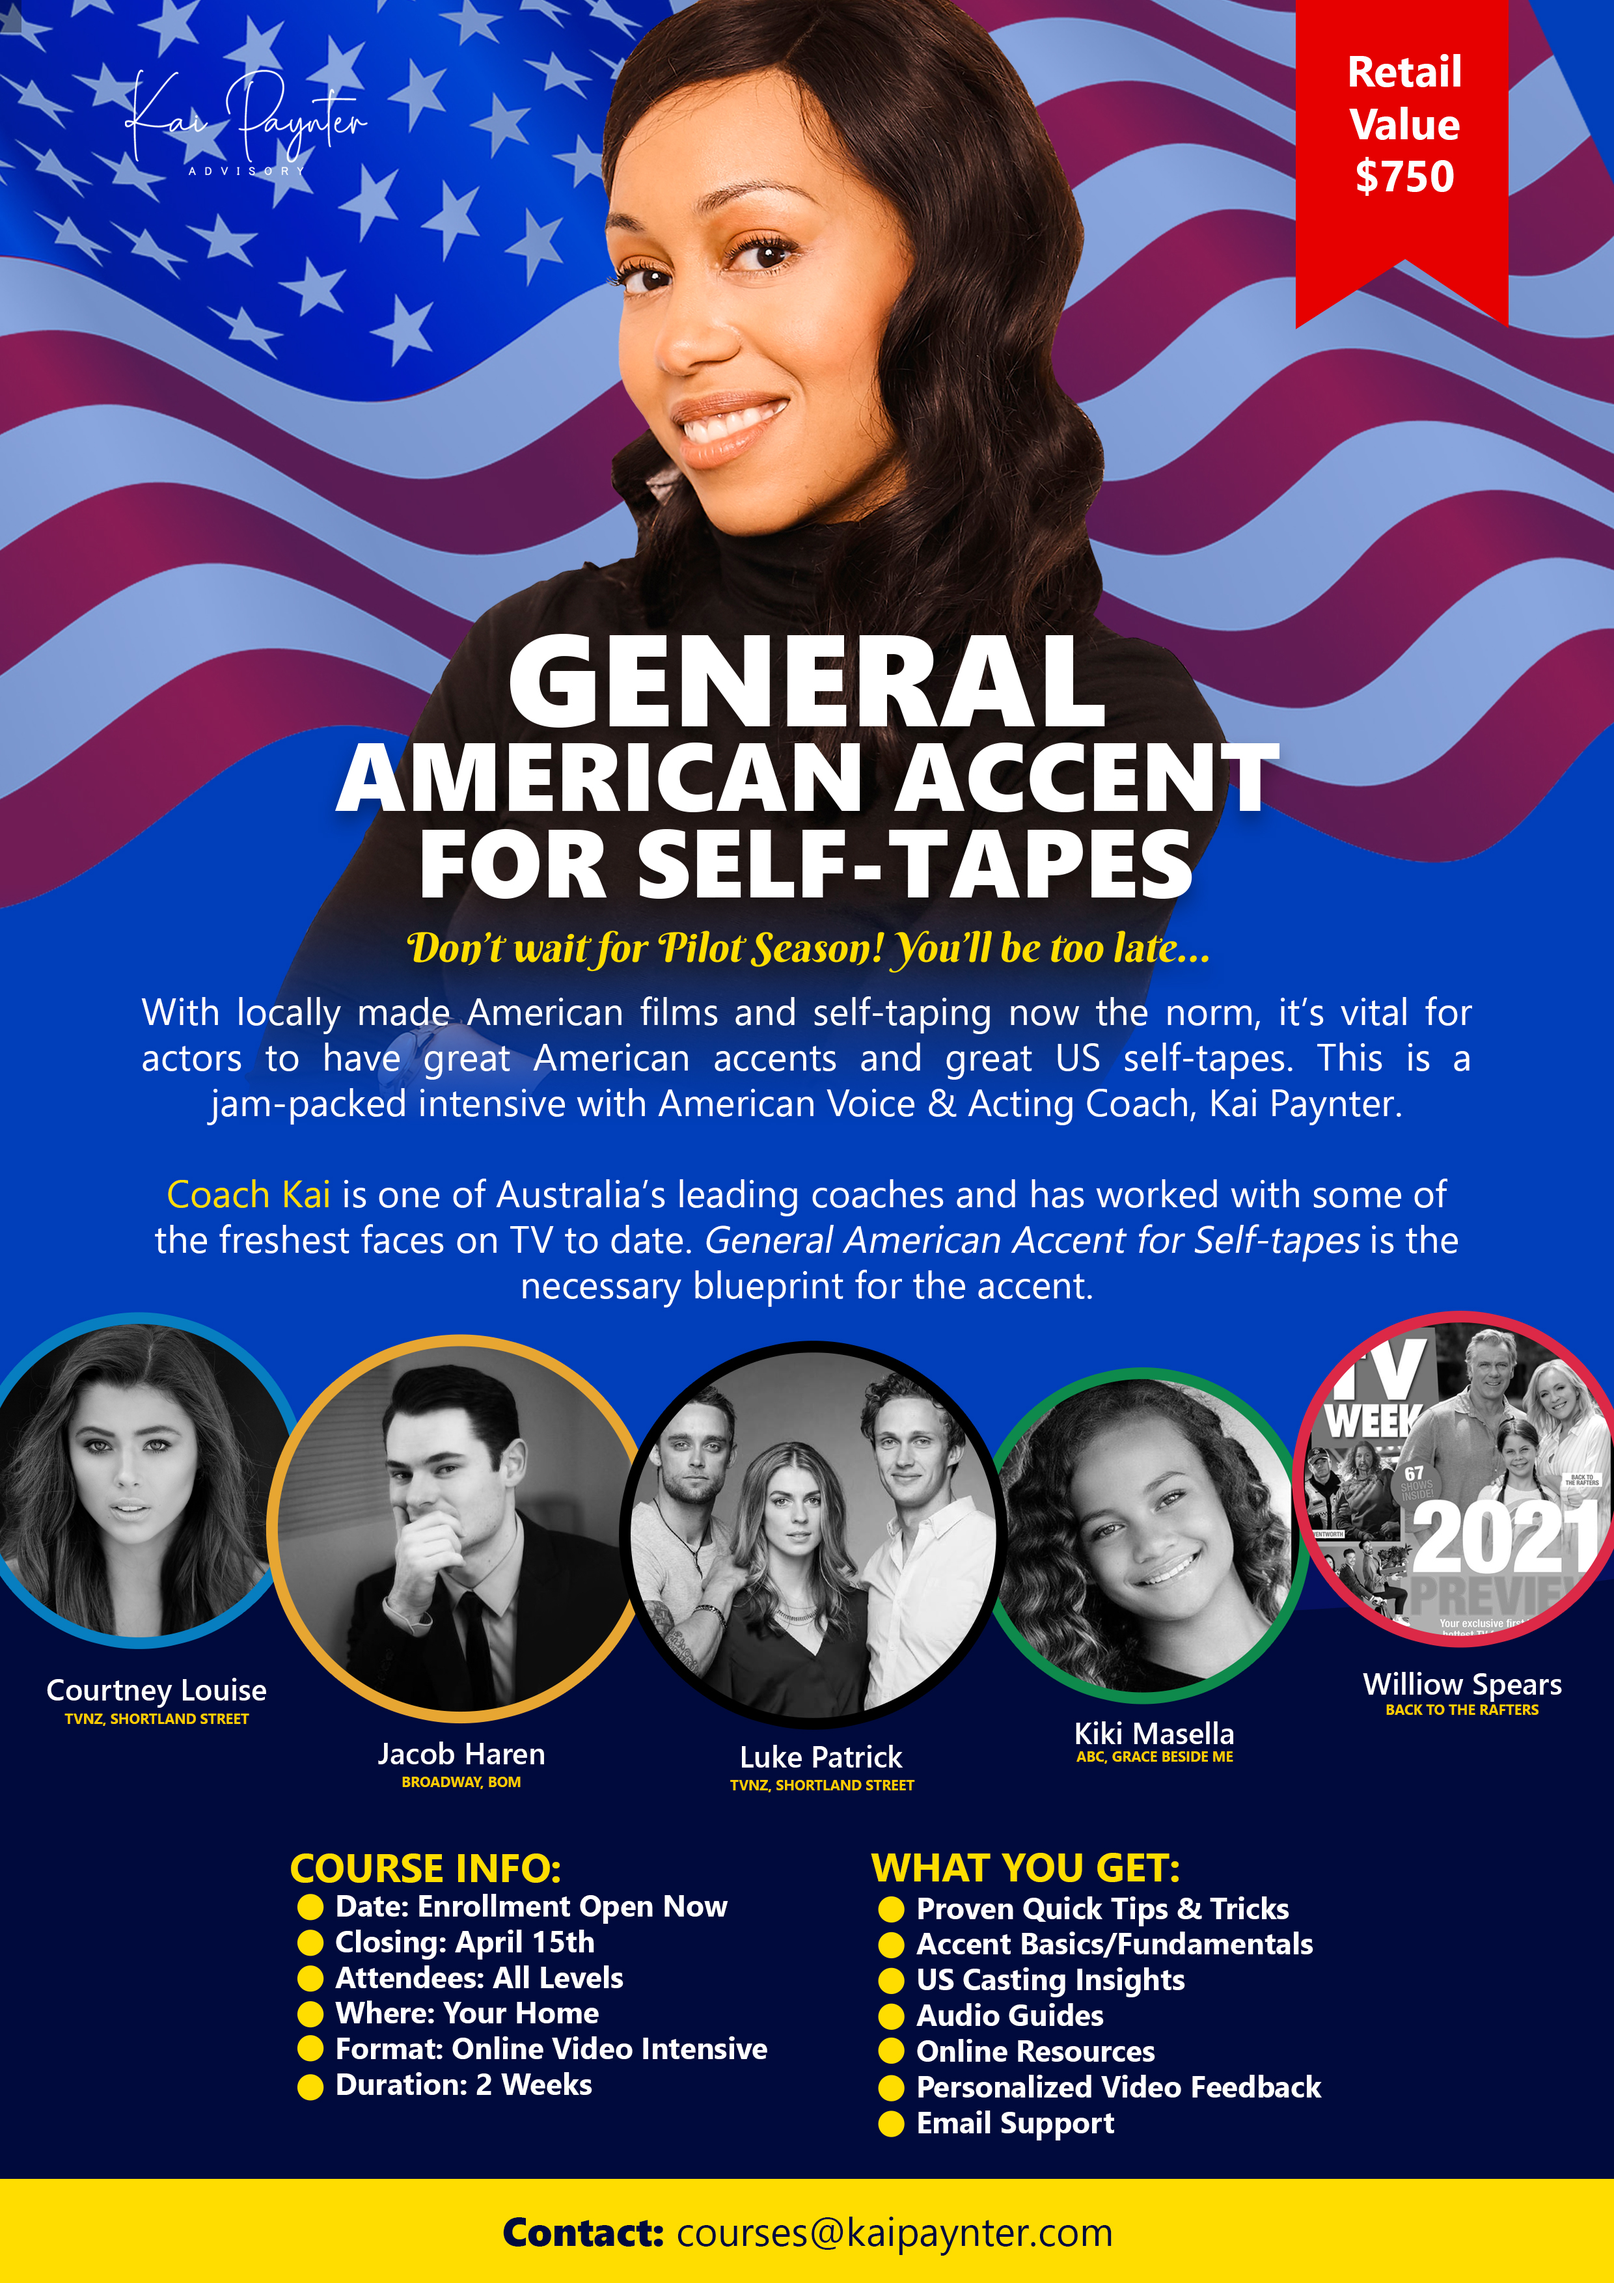
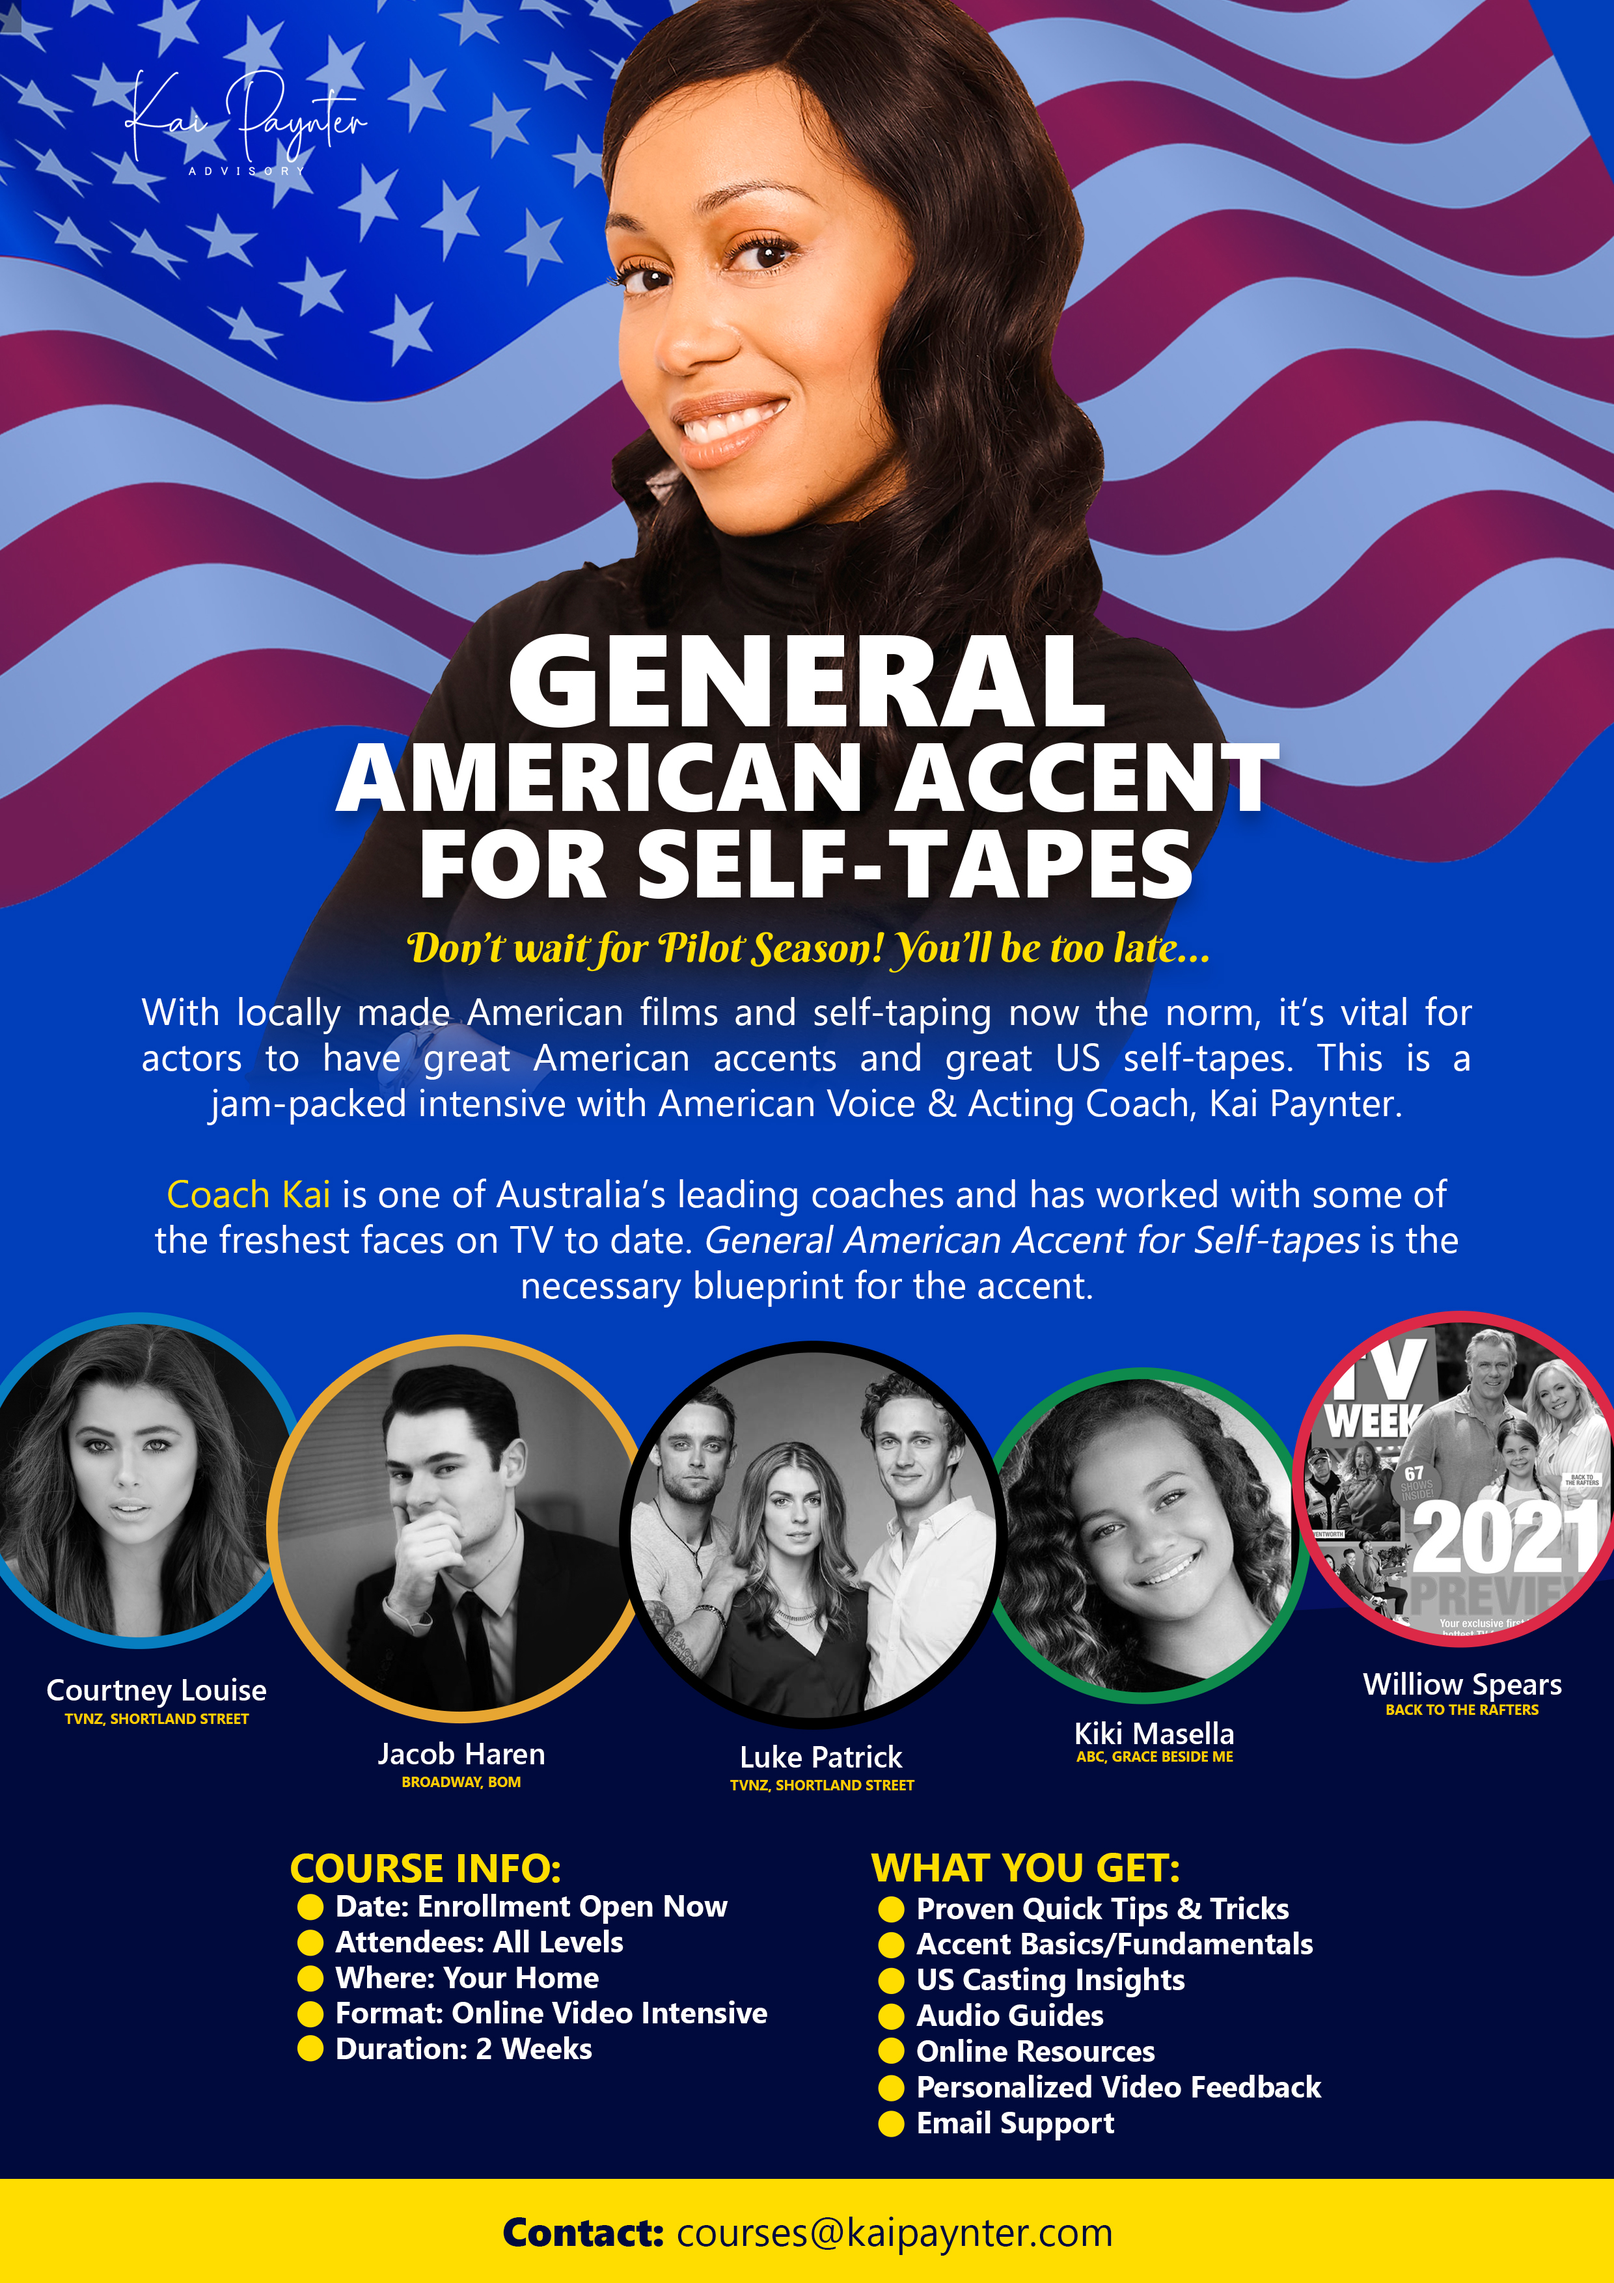
lastest updates

Changed region(s): [[0.7762, 0.0, 0.9625, 0.1554], [0.1863, 0.8389, 0.4657, 0.9322]]

diff --git a/src/pages/whats-on.js b/src/pages/whats-on.js
@@ -50,11 +50,12 @@ class WhatsOn extends React.Component {
                 ></iframe>
                 <p />
                 <p>
-                  “I’ve been studying American Accent with Kai for two terms
-                  now. I absolutely love doing the course with her! She’s super
-                  supportive and she gives me amazing feedback that helps me
-                  progress. I can’t wait to keep on learning and improving my
-                  accent and finding out about more tools!” –{' '}
+                  “<strong>Client of the Quarter</strong> - I’ve been studying
+                  General American Accent with Kai for a little less than a
+                  year, now. I absolutely love doing the course with her! She’s
+                  super supportive and she gives me amazing feedback that helps
+                  me progress. I can’t wait to keep on learning, improving my
+                  accent, and finding out about more tools!” –{' '}
                   <strong>Aria Bella Hart</strong>, Sydney, Australia
                 </p>
               </div>
@@ -103,6 +104,7 @@ class WhatsOn extends React.Component {
                 </span>
                 <p>
                   <p className="centeredText">Fontana, CA</p>
+                  <p className="centeredText">Military Operations Management</p>
                   “…I couldn't believe how she was able to transform all my work
                   experience into this well written, key word rich, professional
                   document, at a fraction of the length of the resume I wrote…I
@@ -134,7 +136,7 @@ class WhatsOn extends React.Component {
 
                 <br />
 
-                <h3 className="centeredText">Sangeetha G.</h3>
+                <h3 className="centeredText">Sangeetha</h3>
                 <iframe
                   className="iframe"
                   title="Sangeetha G"
@@ -179,8 +181,11 @@ class WhatsOn extends React.Component {
                 </span>
                 <p>
                   <p className="centeredText">Granada Hills, CA</p>
+                  <p className="centeredText">
+                    International Marketing Executive
+                  </p>
                   “It had been years since I updated my resume last time. I
-                  needed a professional help to get it right…she understood my
+                  needed professional help to get it right…she understood my
                   needs and worked efficiently to make my resume shine, which I
                   was truly grateful for. She is truly experienced and knows her
                   trade!”
@@ -213,6 +218,7 @@ class WhatsOn extends React.Component {
                   <p className="centeredText">
                     <em>Albuquerque, NM</em>
                   </p>
+                  <p className="centeredText">Film Crew Associate</p>
                   “I can't thank her enough… Not only did she give me a great
                   resume, I got it earlier then it was scheduled (by my
                   request). I can say with all seriousness that the resume I
@@ -252,6 +258,7 @@ class WhatsOn extends React.Component {
                   <p className="centeredText">
                     <em>Pasadena, CA</em>
                   </p>
+                  <p className="centeredText">Talent Agent/Manager</p>
                   “What I really liked about the service was that she took the
                   time and listened to my career goals. Reading my finished
                   resume I really felt like it reflected everything that I told
@@ -260,7 +267,7 @@ class WhatsOn extends React.Component {
 
                 <br />
 
-                <h3 className="centeredText">Annitha K.</h3>
+                <h3 className="centeredText">Annitha</h3>
                 <iframe
                   className="iframe"
                   title="Annitha K"
@@ -273,10 +280,10 @@ class WhatsOn extends React.Component {
                   <p className="centeredText">
                     <em>Sydney, Australia</em>
                   </p>
-                  “I love Kai’s teaching methods they make you so excited to be
-                  learning and doing what I love to do. Her energy is so
-                  contagious with every lesson you gain Courage knowing you can
-                  excel at anything because she truly believes in you.”
+                  “I love Kai’s teaching methods; they make you so excited to be
+                  learning and doing what you love to do. Her energy is so
+                  contagious and with every lesson, you gain courage, knowing
+                  you can excel at anything because she truly believes in you.”
                 </p>
               </div>
             </div>

diff --git a/src/pages/services.js b/src/pages/services.js
@@ -234,8 +234,6 @@ class Services extends React.Component {
                 <p className="centeredText">
                   <strong>Date</strong>: Enrollment Open Now!
                   <br />
-                  <strong>Closing</strong>: April 15th
-                  <br />
                   <strong>Attendees</strong>: All Levels
                   <br />
                   <strong>Where</strong>: Your Home
@@ -281,8 +279,6 @@ class Services extends React.Component {
                 </p>
                 <p className="centeredText">
                   <strong>Date</strong>: Enrollment Open Now!
-                  <br />
-                  <strong>Closing</strong>: April 15th
                   <br />
                   <strong>Attendees</strong>: All Levels
                   <br />

diff --git a/src/pages/index.js b/src/pages/index.js
@@ -113,9 +113,10 @@ class Index extends React.Component {
                 </span>
                 <h3>Your Career</h3>
                 <p>
-                  At this time we are only working with existing clients and
-                  referrals, however, please submit an inquiry and we will do
-                  our best to accommodate. Thank you for your understanding.
+                  At this time we are only working with existing
+                  clients/referrals, however, please submit an inquiry and we
+                  will do our best to accommodate. Thank you for your
+                  understanding.
                 </p>
               </li>
               <li>

diff --git a/src/components/Header.js b/src/components/Header.js
@@ -8,8 +8,8 @@ const Header = props => (
     </span>
     <h1>Welcome</h1>
     <h2 className="change">
-      Hi! I'm <strong>Kai</strong>, the solution-strategy coach for artists,
-      creatives, and performers.
+      Hi! I'm <strong>Kai</strong>, the solution-strategy coach for performers,
+      artists, and creatives.
     </h2>
   </header>
 )
